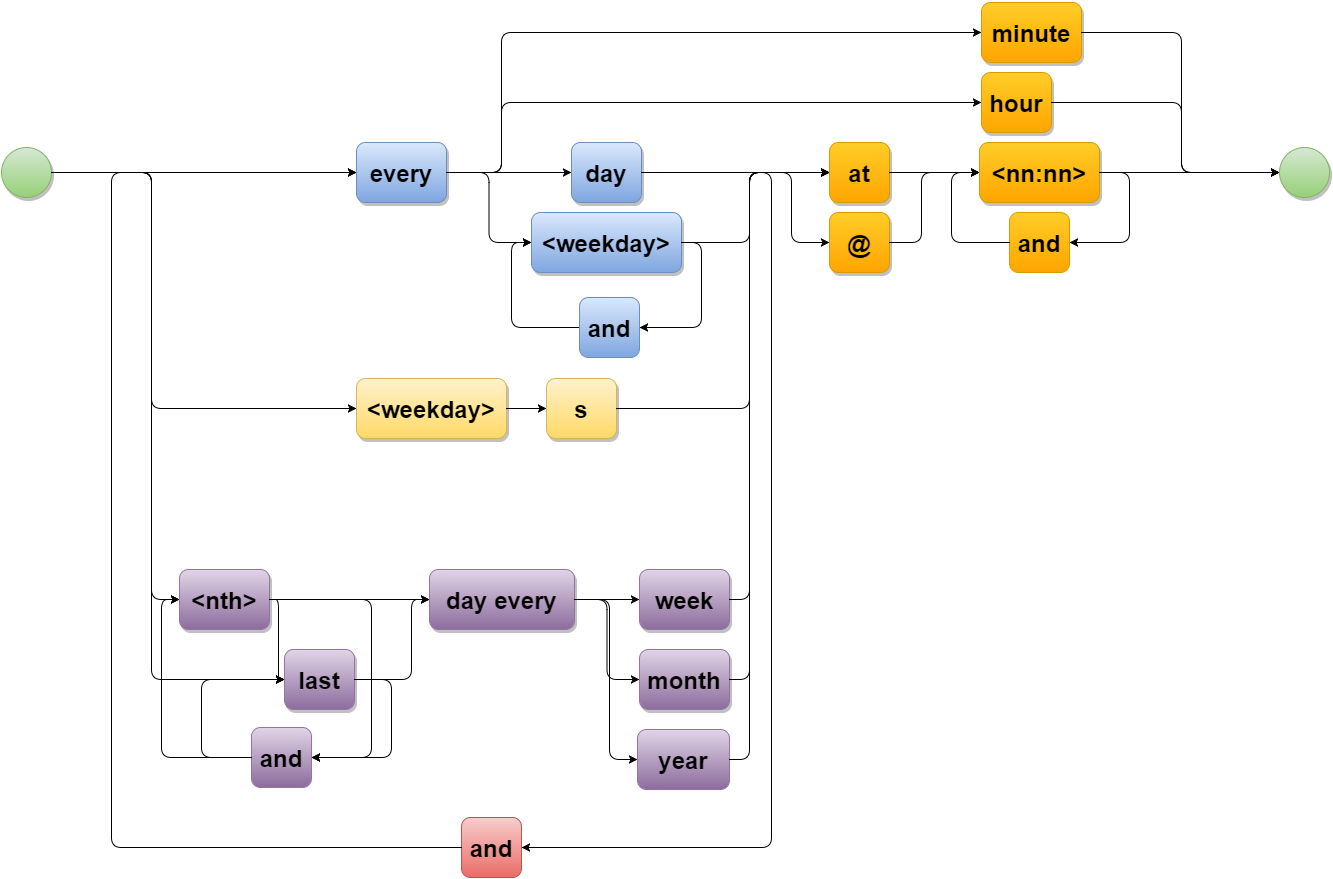
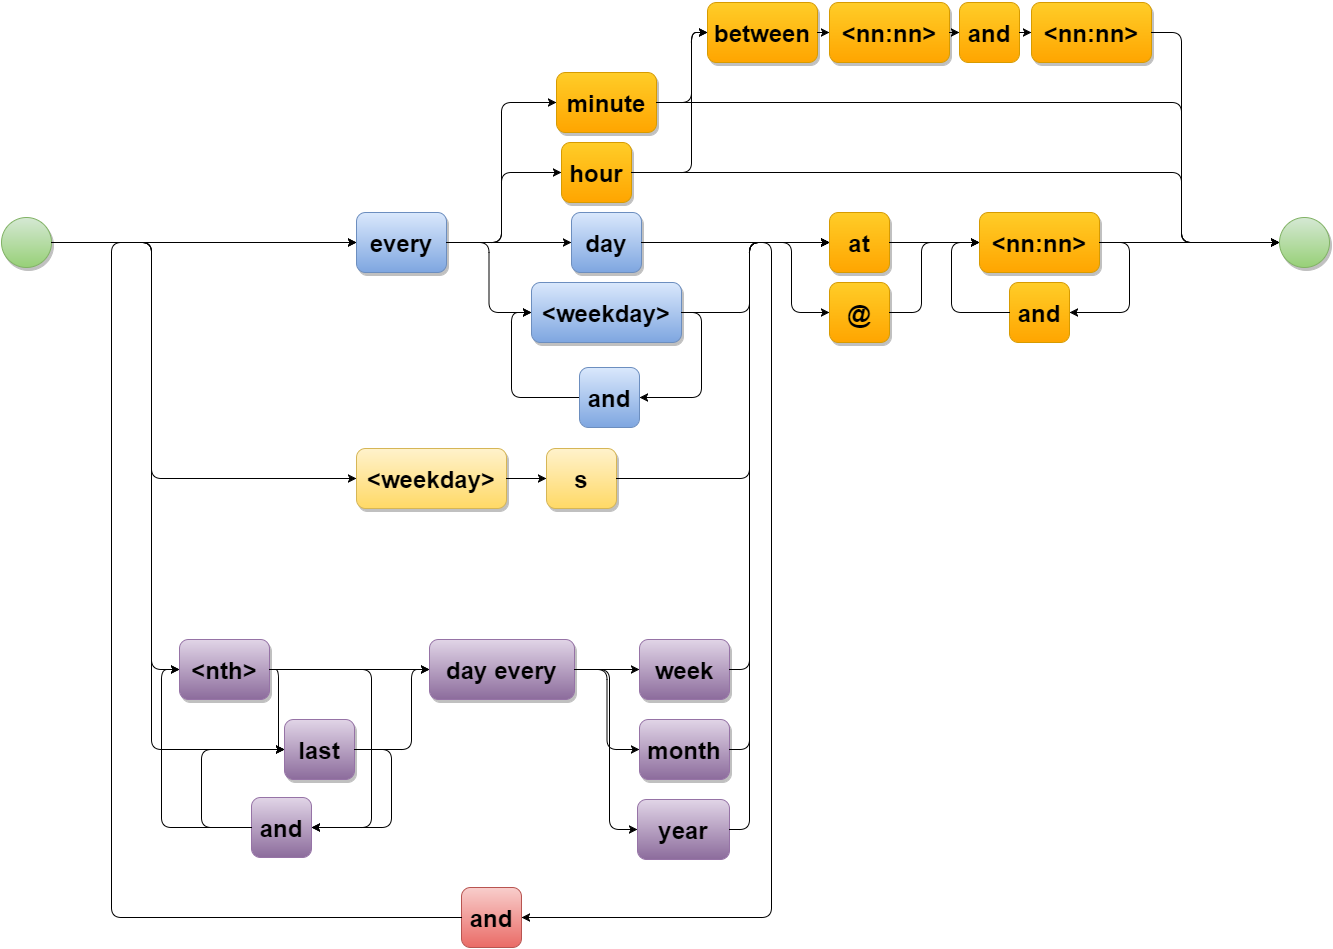
#5 Possibility to Between
works on every minute and every hour

diff --git a/Tests/Full/ScheduleTests.cs b/Tests/Full/ScheduleTests.cs
@@ -19,6 +19,66 @@ namespace Tests.Full
         }
 
         [Test]
+        public void EveryMinuteBetweenBeforeStart()
+        {
+            "every minute between 16:00 and 17:00".From("2015-01-01 05:23", false).Gives("2015-01-01 16:00");
+        }
+
+        [Test]
+        public void EveryMinuteBetweenBeforeInTheMiddle()
+        {
+            "every minute between 16:00 and 17:00".From("2015-01-01 16:23", false).Gives("2015-01-01 16:24");
+        }
+
+        [Test]
+        public void EveryMinuteBetweenBeforeEnd()
+        {
+            "every minute between 16:00 and 17:00".From("2015-01-01 16:59", false).Gives("2015-01-01 17:00");
+        }
+
+        [Test]
+        public void EveryMinuteBetweenAtEnd()
+        {
+            "every minute between 16:00 and 17:00".From("2015-01-01 17:00", false).Gives("2015-01-02 16:00");
+        }
+
+        [Test]
+        public void EveryMinuteBetweenAfterEnd()
+        {
+            "every minute between 16:00 and 17:00".From("2015-01-01 17:10", false).Gives("2015-01-02 16:00");
+        }
+
+        [Test]
+        public void EveryHourBetweenBeforeStart()
+        {
+            "every hour between 18:00 and 21:00".From("2015-01-01 05:23", false).Gives("2015-01-01 18:00");
+        }
+
+        [Test]
+        public void EveryHourBetweenBeforeInTheMiddle()
+        {
+            "every hour between 18:00 and 21:00".From("2015-01-01 18:23", false).Gives("2015-01-01 19:00");
+        }
+
+        [Test]
+        public void EveryHourBetweenBeforeEnd()
+        {
+            "every hour between 18:00 and 21:00".From("2015-01-01 20:59", false).Gives("2015-01-01 21:00");
+        }
+
+        [Test]
+        public void EveryHourBetweenAtEnd()
+        {
+            "every hour between 18:00 and 21:00".From("2015-01-01 21:00", false).Gives("2015-01-02 18:00");
+        }
+
+        [Test]
+        public void EveryHourBetweenAfterEnd()
+        {
+            "every hour between 18:00 and 21:00".From("2015-01-01 21:10", false).Gives("2015-01-02 18:00");
+        }
+
+        [Test]
         public void EveryDayAt_ExactlyTheSameTime()
         {
             "every day at 06:30".From("2015-10-05 06:30:00", true).Gives("2015-10-05 06:30:00");

diff --git a/GoldenFox/ScheduleParser.cs b/GoldenFox/ScheduleParser.cs
@@ -23,7 +23,8 @@ namespace GoldenFox
                 "st", "nd", "rd", "th",
                 "last",
                 "s",
-                "and");
+                "and",
+                "between");
             Add(_days);
             _tokenizer.AddToken(new IntegerToken());
         }
@@ -129,17 +130,45 @@ namespace GoldenFox
         private List<Clock> ParseTimes(PartsTraverser parts)
         {
             var times = new List<Clock>();
-            if (parts.Peek("hour"))
+            if (parts.SkipIf("hour"))
             {
                 times = Enumerable.Range(0, 24).Select(x => new Clock(x, 0)).ToList();
+                if (parts.SkipIf("between"))
+                {
+                    Clock from = ParseClock(parts);
+                    parts.SkipAnyOrFail("and");
+                    Clock to = ParseClock(parts);
+                    times = times.Where(x => x.CompareTo(from) >= 0 && x.CompareTo(to) <= 0).ToList();
+                }
             }
-            else if (parts.Peek("minute"))
+
+            else if (parts.SkipIf("minute"))
             {
+                Clock from = null;
+                Clock to = null;
+                if (parts.SkipIf("between"))
+                {
+                    from = ParseClock(parts);
+                    parts.SkipAnyOrFail("and");
+                    to = ParseClock(parts);
+                }
+
                 for (var i = 0; i < 24; i++)
                 {
                     for (var y = 0; y < 60; y++)
                     {
-                        times.Add(new Clock(i, y));
+                        var clock = new Clock(i, y);
+                        if (from != null && to != null)
+                        {
+                            if (clock.CompareTo(from) >= 0 && clock.CompareTo(to) <= 0)
+                            {
+                                times.Add(clock);
+                            }
+                        }
+                        else
+                        {
+                            times.Add(clock);
+                        }
                     }
                 }
             }
